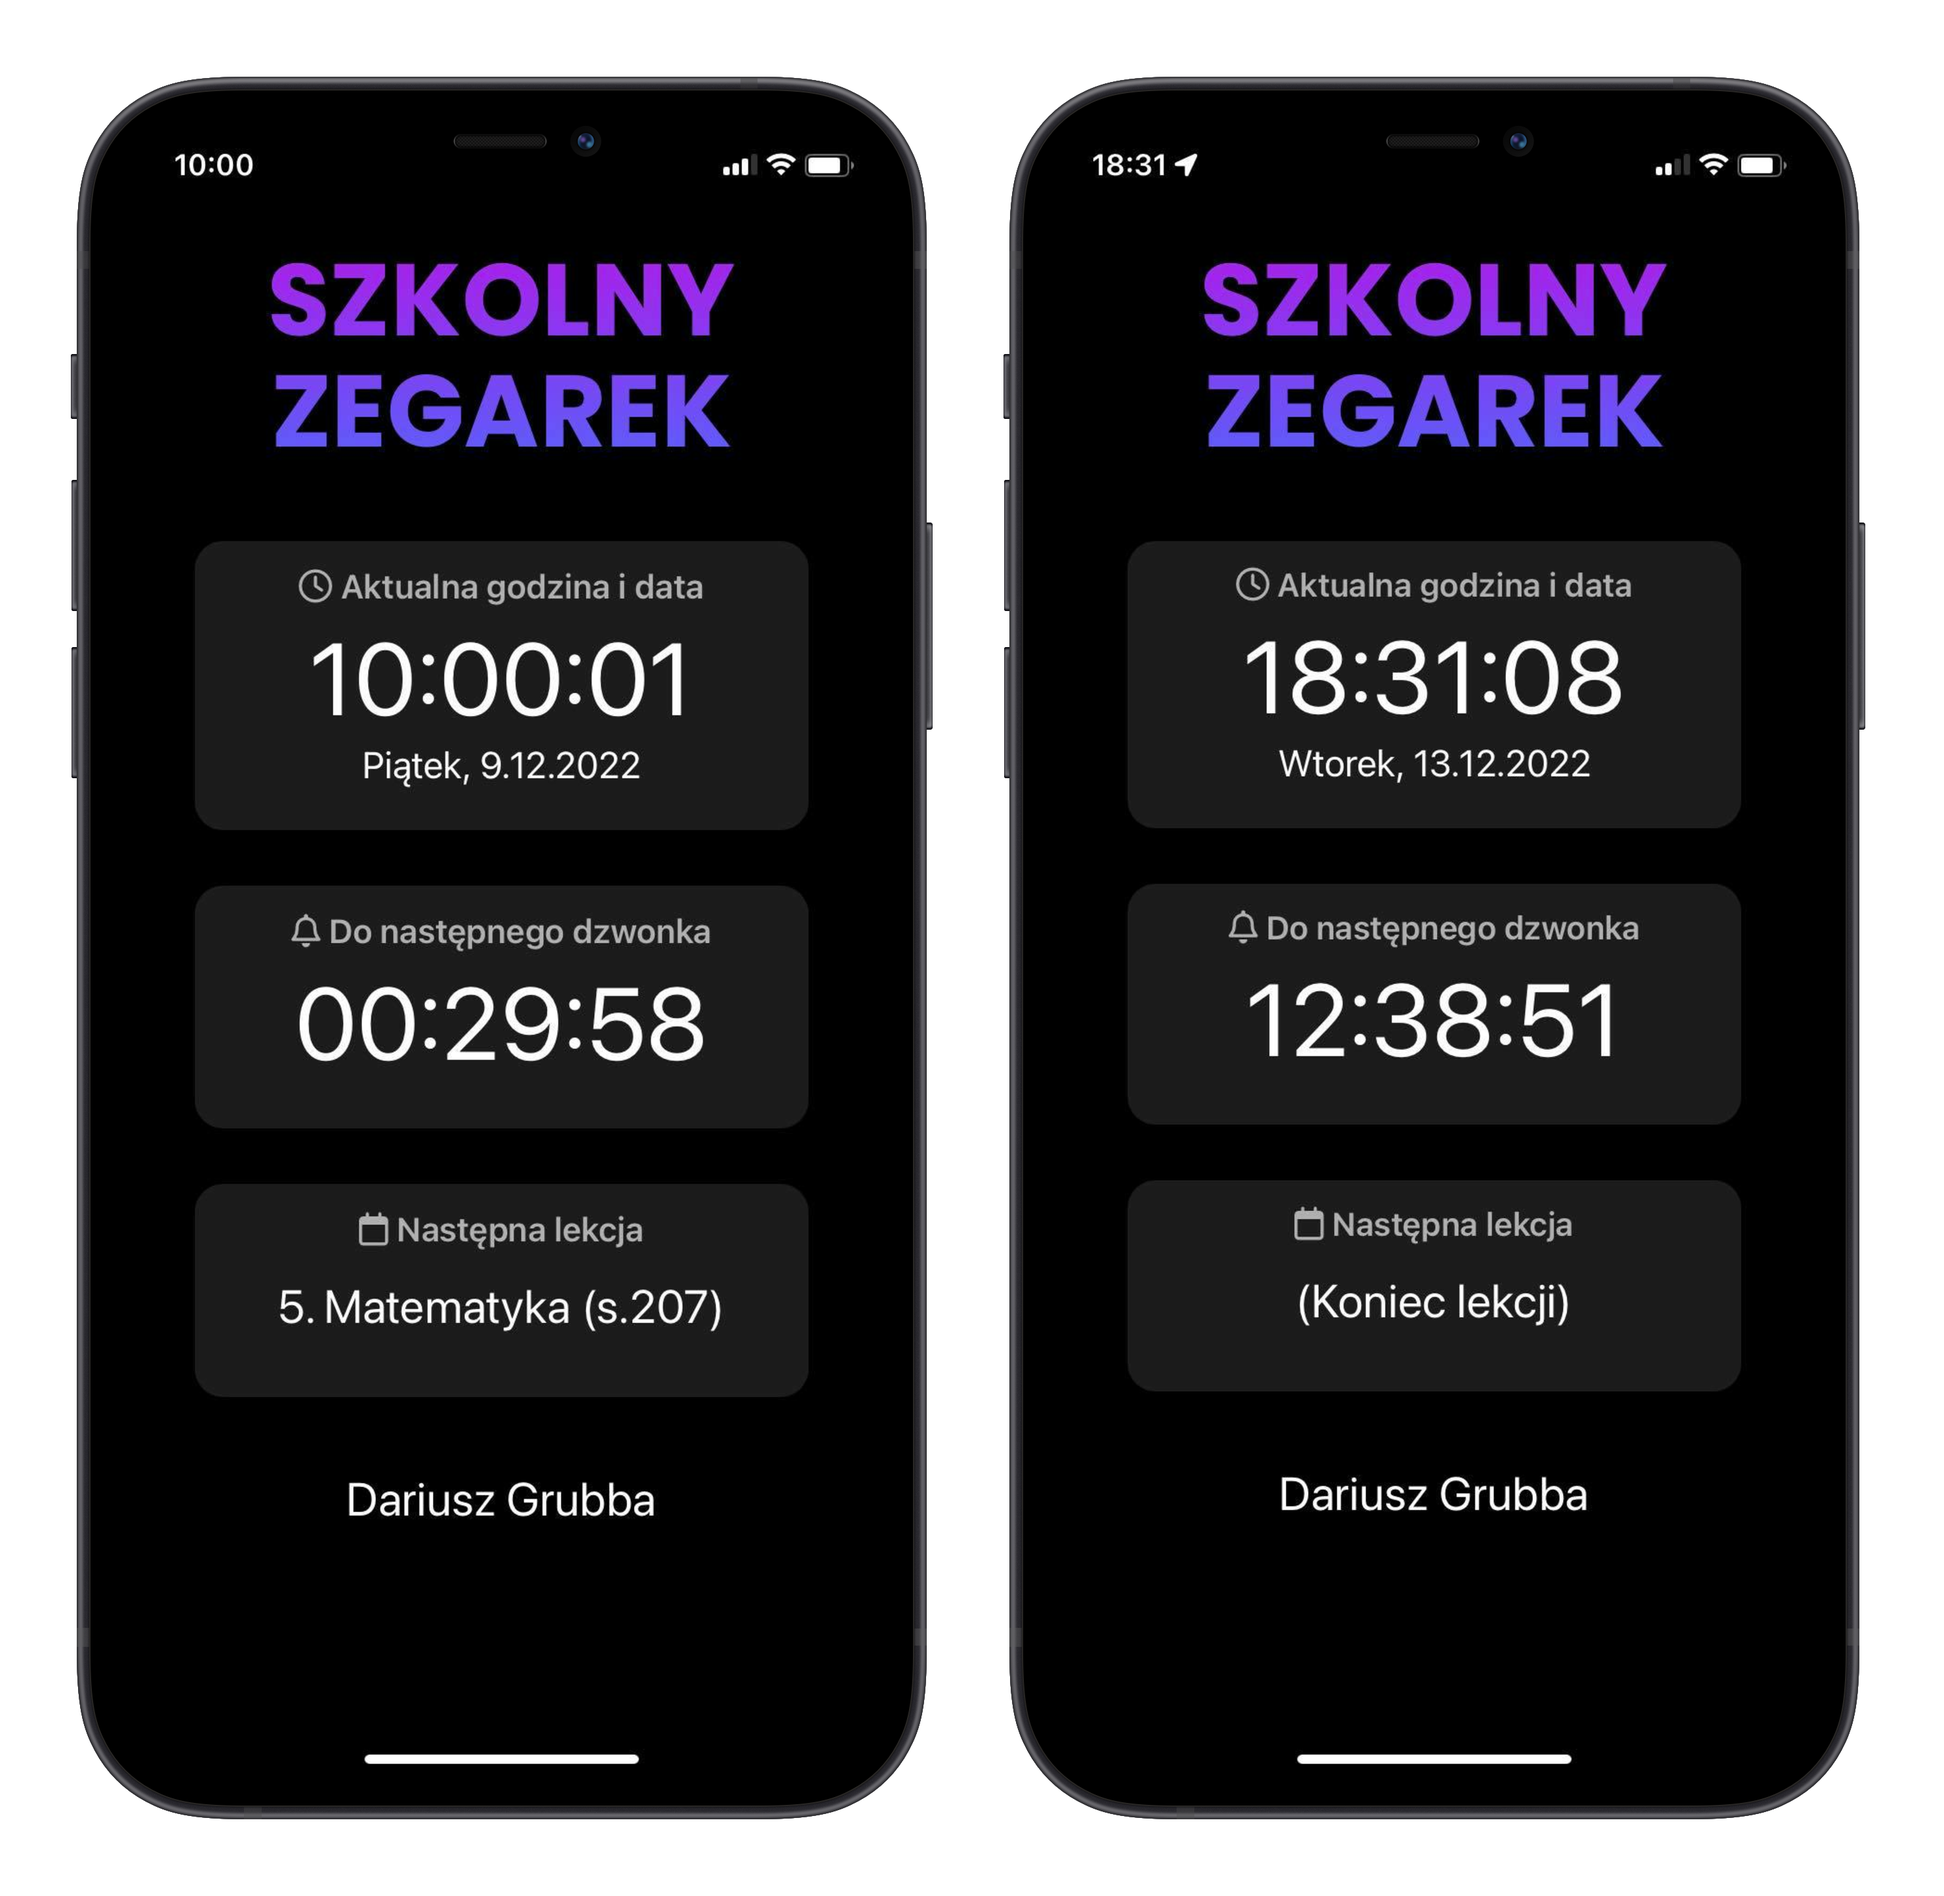
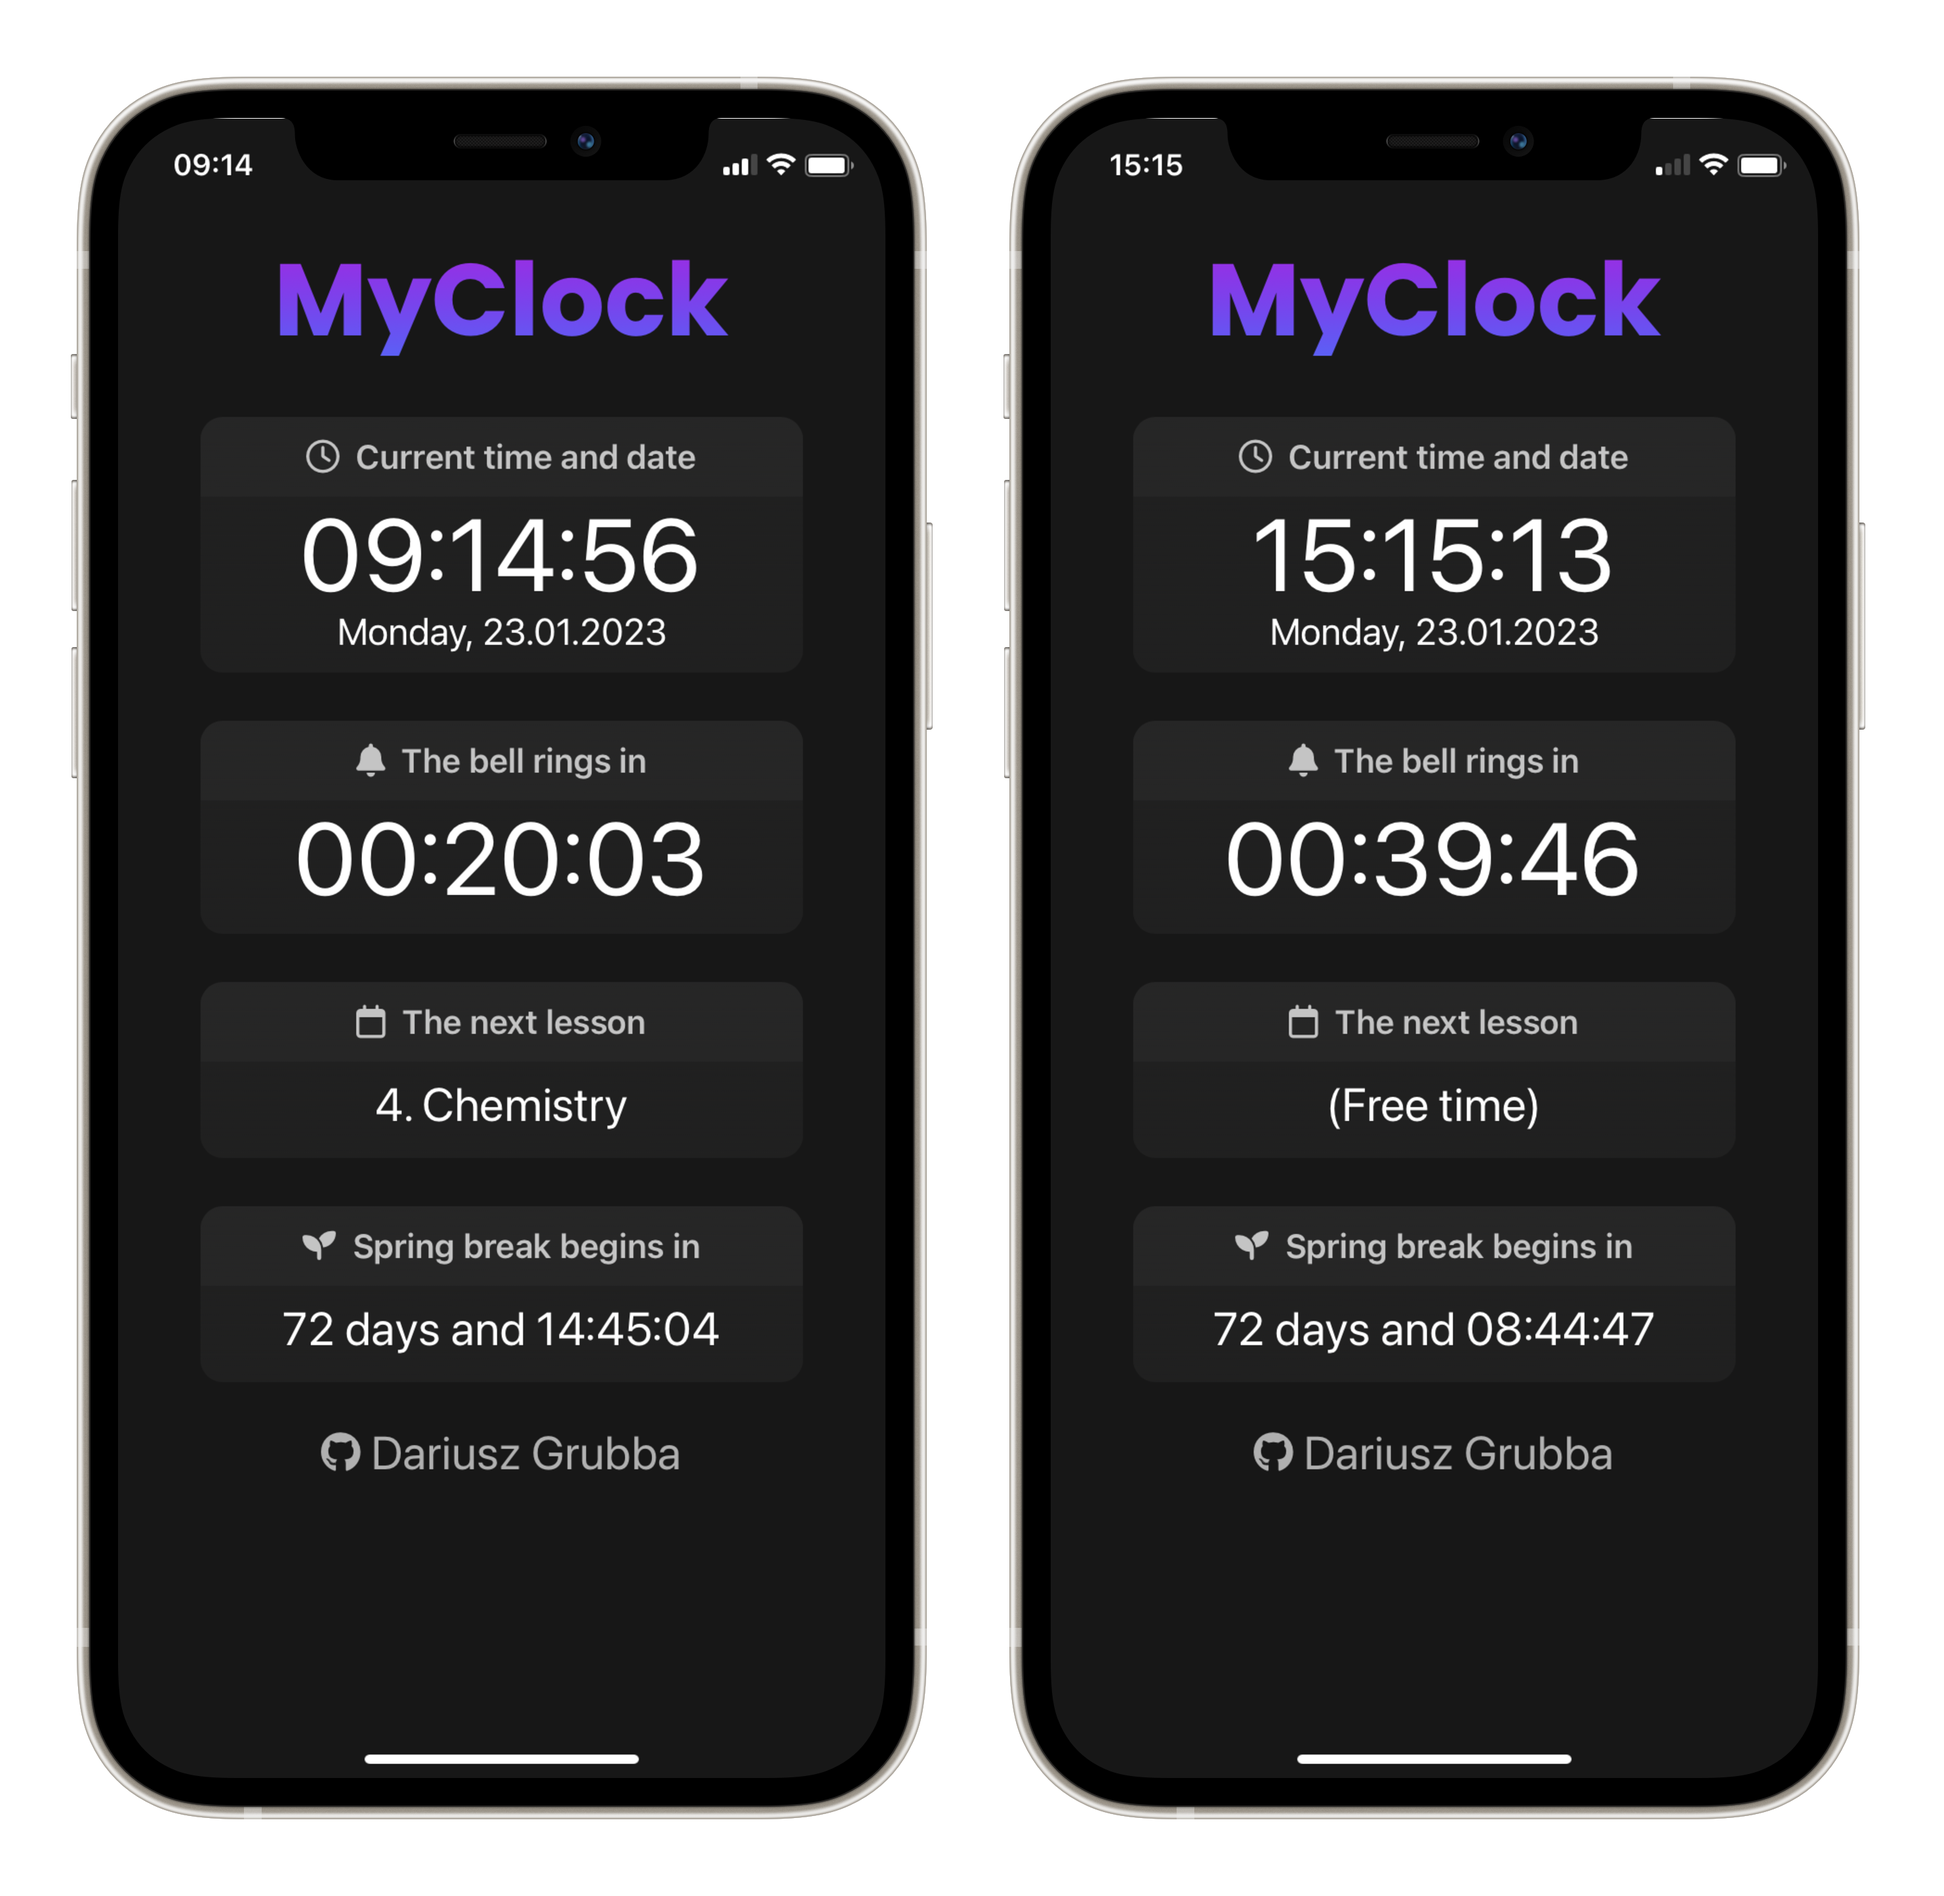
update

diff --git a/src/schedule.js b/src/schedule.js
@@ -16,7 +16,6 @@ export function schedule() {
   ];
 
   const monday = [];
-  monday[0] = "";
   monday[1] = "";
   monday[2] = "";
   monday[3] = "";

diff --git a/README.md b/README.md
@@ -1,37 +1,65 @@
-# MyClock - Szkolny Zegarek
+# MyClock - PWA Project
 
-### Funkcje 
+### Features
 
-- Wyświetlanie aktualnego czasu i godziny;
-- Odliczanie czasu do następnego dzwonka;
-- Podawanie następnej lekcji z planu lekcji;
-- Informowanie o zakończeniu lekcji;
-- (***aktualizacja 04.12.2022***) Odliczanie do świąt Bożego Narodzenia 🎁
+- Displaying the current time and date;
+- Countdown to the next break;
+- Passing the next lesson from the timetable;;
+- Informing about the end of the lesson;
+- Countdown to the next school break (e.g., spring break)
 
-# [Link do aplikacji](https://myclock-three.vercel.app/ "Link do aplikacji")
+# [Preview link](https://myclock-github.vercel.app/ "Preview link")
+
+Add your PWA’s icon to a home screen
+
+- iOS
+
+1. Open the browser by tapping on the Safari icon.
+2. Navigate to the PWA url.
+3. Tap on the Share button at the bottom of the browser window. It's represented by a square with an up arrow in the foreground.
+4. The iOS Share Sheet will now appear, overlaying the main browser window. Select the option labeled "Add to home screen".
+
+- Android
+
+1. Open Chrome Chrome.
+2. Navigate to the PWA url.
+3. Tap Install.
+4. Follow the on-screen instructions.
+
 <!-- ![szkolny_zegarek](https://github.com/dariusz-grubba/myclock/blob/013b001a82cd7769e8d32d76f96e154b90ea2de4/public/logo.png) -->
 
-Projekt został stworzony przy użyciu frameworku **React.js**. Umożliwiło to zbudowanie dynamicznego, responsywnego interfejsu, za którym stoją poszczególne modułowe komponenty.
+# About
 
-![zdjecia](https://github.com/dariusz-grubba/myclock/blob/4e725a158b446462f530cf6842cecdeacf2b74e2/public/phones.png)
+The project was created using the **React.js** framework. This made it possible to build a dynamic, responsive interface with individual modular components behind it.
 
-### Moduły
+![photos](https://github.com/dariusz-grubba/myclock/blob/4e725a158b446462f530cf6842cecdeacf2b74e2/public/phones.png)
+
+# Uploading your own schedule
+
+If you would like to set your own schedule, you can do so by modifying the **schedule.js** file. In addition, you can also change the timing of school bells. Remember to keep the same layout as it is now.
+
+<!-- ### Moduły
 
 #### - Aktualna godzina i data
 
 ```javascript
-import { useEffect, useState } from "react";  //zaimportowanie wbudowanych w Reacts.js bibliotek
+import { useEffect, useState } from "react"; //zaimportowanie wbudowanych w Reacts.js bibliotek
 function Zegarek() {
-    const [clockState, setClockState] = useState();
-    useEffect(() => { //komponent useEffect() renderuje element na stronie
-        setInterval(() => { //setInterval wywołuje funkcję w określonych, regularnych odstępach czasowych
-            const date = new Date();
-            setClockState(date.toLocaleTimeString('pl-PL')); //wyświetlenie zegarka w formacie 24 godzinnym
-        }, 1000); }, []);
-    return document.getElementById('tykajacyZegar').innerHTML = clockState //przekazanie rezultatu funkcji do diva
+  const [clockState, setClockState] = useState();
+  useEffect(() => {
+    //komponent useEffect() renderuje element na stronie
+    setInterval(() => {
+      //setInterval wywołuje funkcję w określonych, regularnych odstępach czasowych
+      const date = new Date();
+      setClockState(date.toLocaleTimeString("pl-PL")); //wyświetlenie zegarka w formacie 24 godzinnym
+    }, 1000);
+  }, []);
+  return (document.getElementById("tykajacyZegar").innerHTML = clockState); //przekazanie rezultatu funkcji do diva
 }
 ```
+
 #### - Do następnego dzwonka
+
 Moduł wyświetlający aktualny czas i datę oraz ten odliczający czas do dzwonka działa niezależnie względem drugiego. Dzięki temu w przypadku awarii jednego, drugi nadal działa.
 
 ```javascript
@@ -53,8 +81,11 @@ function doDzwonkaPozostalo({ hoursMinSecs }) { //funkcja przyjmuje argument w f
         const timerId = setInterval(() => odliczajDoDzwonka(), 1000); //funkcja odświeża wartość godziny raz na sekundę
         return () => clearInterval(timerId); //resetuje zegar
 ```
+
 #### - Następna lekcja
+
 Wypisuje kolejną lekcję **n** (z przedziału 1-13) dopasowaną do aktualnego dnia **n** (poniedziałek-sobota).
+
 ```javascript
 export function nastepnaLekcja(godzinaLekcyjna, dzienTygodnia, poniedzialek, wtorek, sroda, czwartek, piatek, sobota) {
   if ((godzinaLekcyjna[n])) {
@@ -67,27 +98,26 @@ export function nastepnaLekcja(godzinaLekcyjna, dzienTygodnia, poniedzialek, wto
       case 6: document.getElementById('wyswietlLekcje').innerHTML = sobota[n]; break;
       default: console.log("nie wypisano żadnej lekcji");
     }
-  } 
-```
-# Instalacja
+  }
+``` -->
 
-Aby zainstalować i uruchomić na localhost **Szkolny Zegarek** należy zainstalować  **Node.js** i użyć następujących komend w terminalu:
+# Installation
+
+To install **MyClock** and run it on localhost , install **Node.js** and use the following commands in the terminal:
 
 `$ npm install`
 
-Otwiera aplikację w trybie deweloperskim.
-Przeście do [http://localhost:3000](http://localhost:3000) spowoduje włączenie aplikacji w przeglądarce na lokalnym serwerze.
+Opens the application in developer mode.
+[http://localhost:3000](http://localhost:3000) Opens on the local server in the browser.
 
 `$  npm start`
 
-Uruchamia tryb testowy w interaktywnym trybie obserwacyjnym.
+Launches test mode in interactive observation mode.
 
 `$  npm test`
 
-Buduje aplikację do produkcji w folderze `build`.
+Builds the application for production in the `build` folder.
 
 `$  npm run build`
 
-Więcej informacji o [komplilacji kodu](https://facebook.github.io/create-react-app/docs/deployment)
-
-# [Link do aplikacji](https://myclock-three.vercel.app/ "Link do aplikacji")
+You can find more information about it here: [codeCompilation](https://facebook.github.io/create-react-app/docs/deployment)
